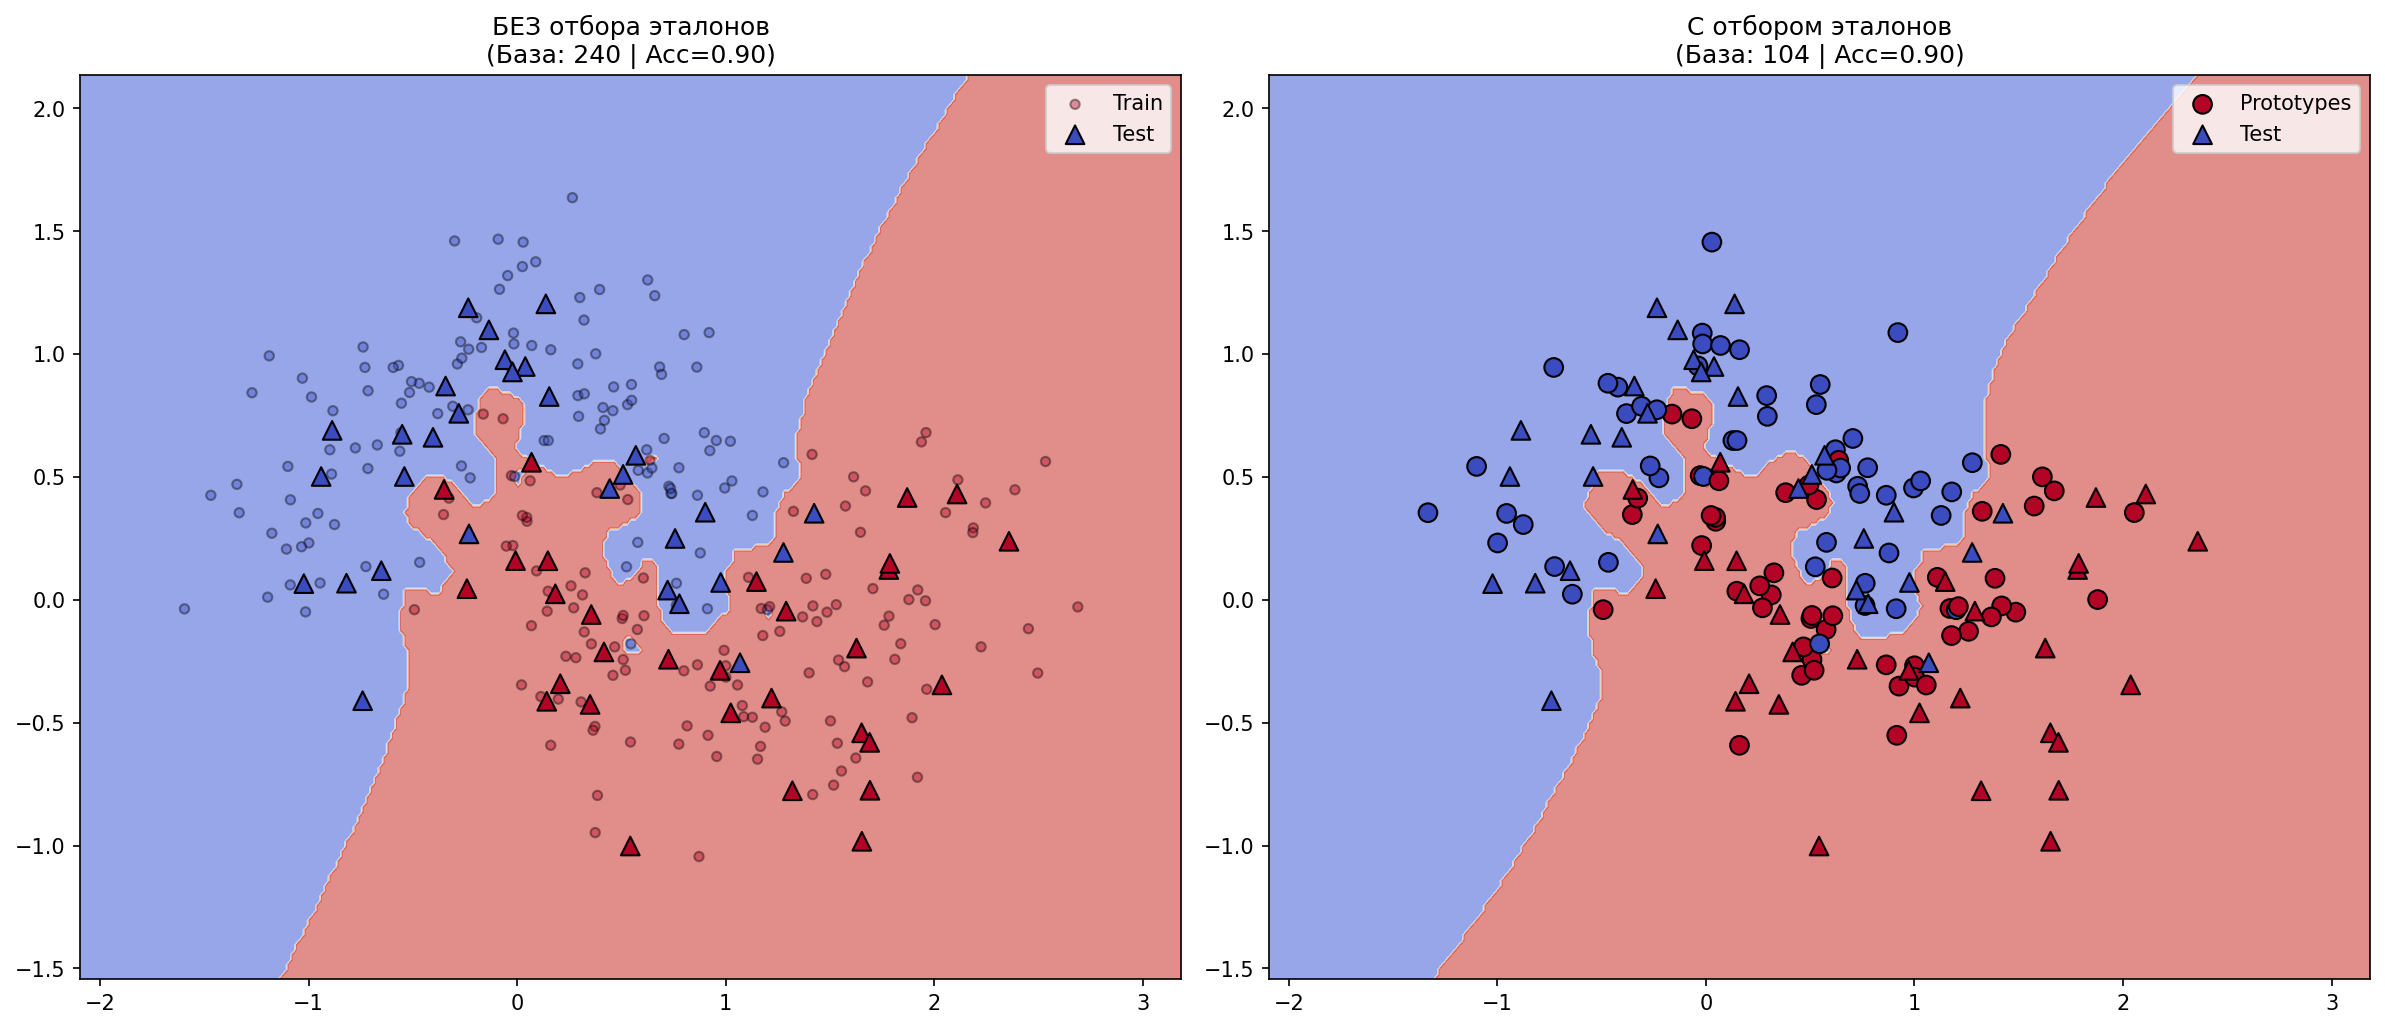
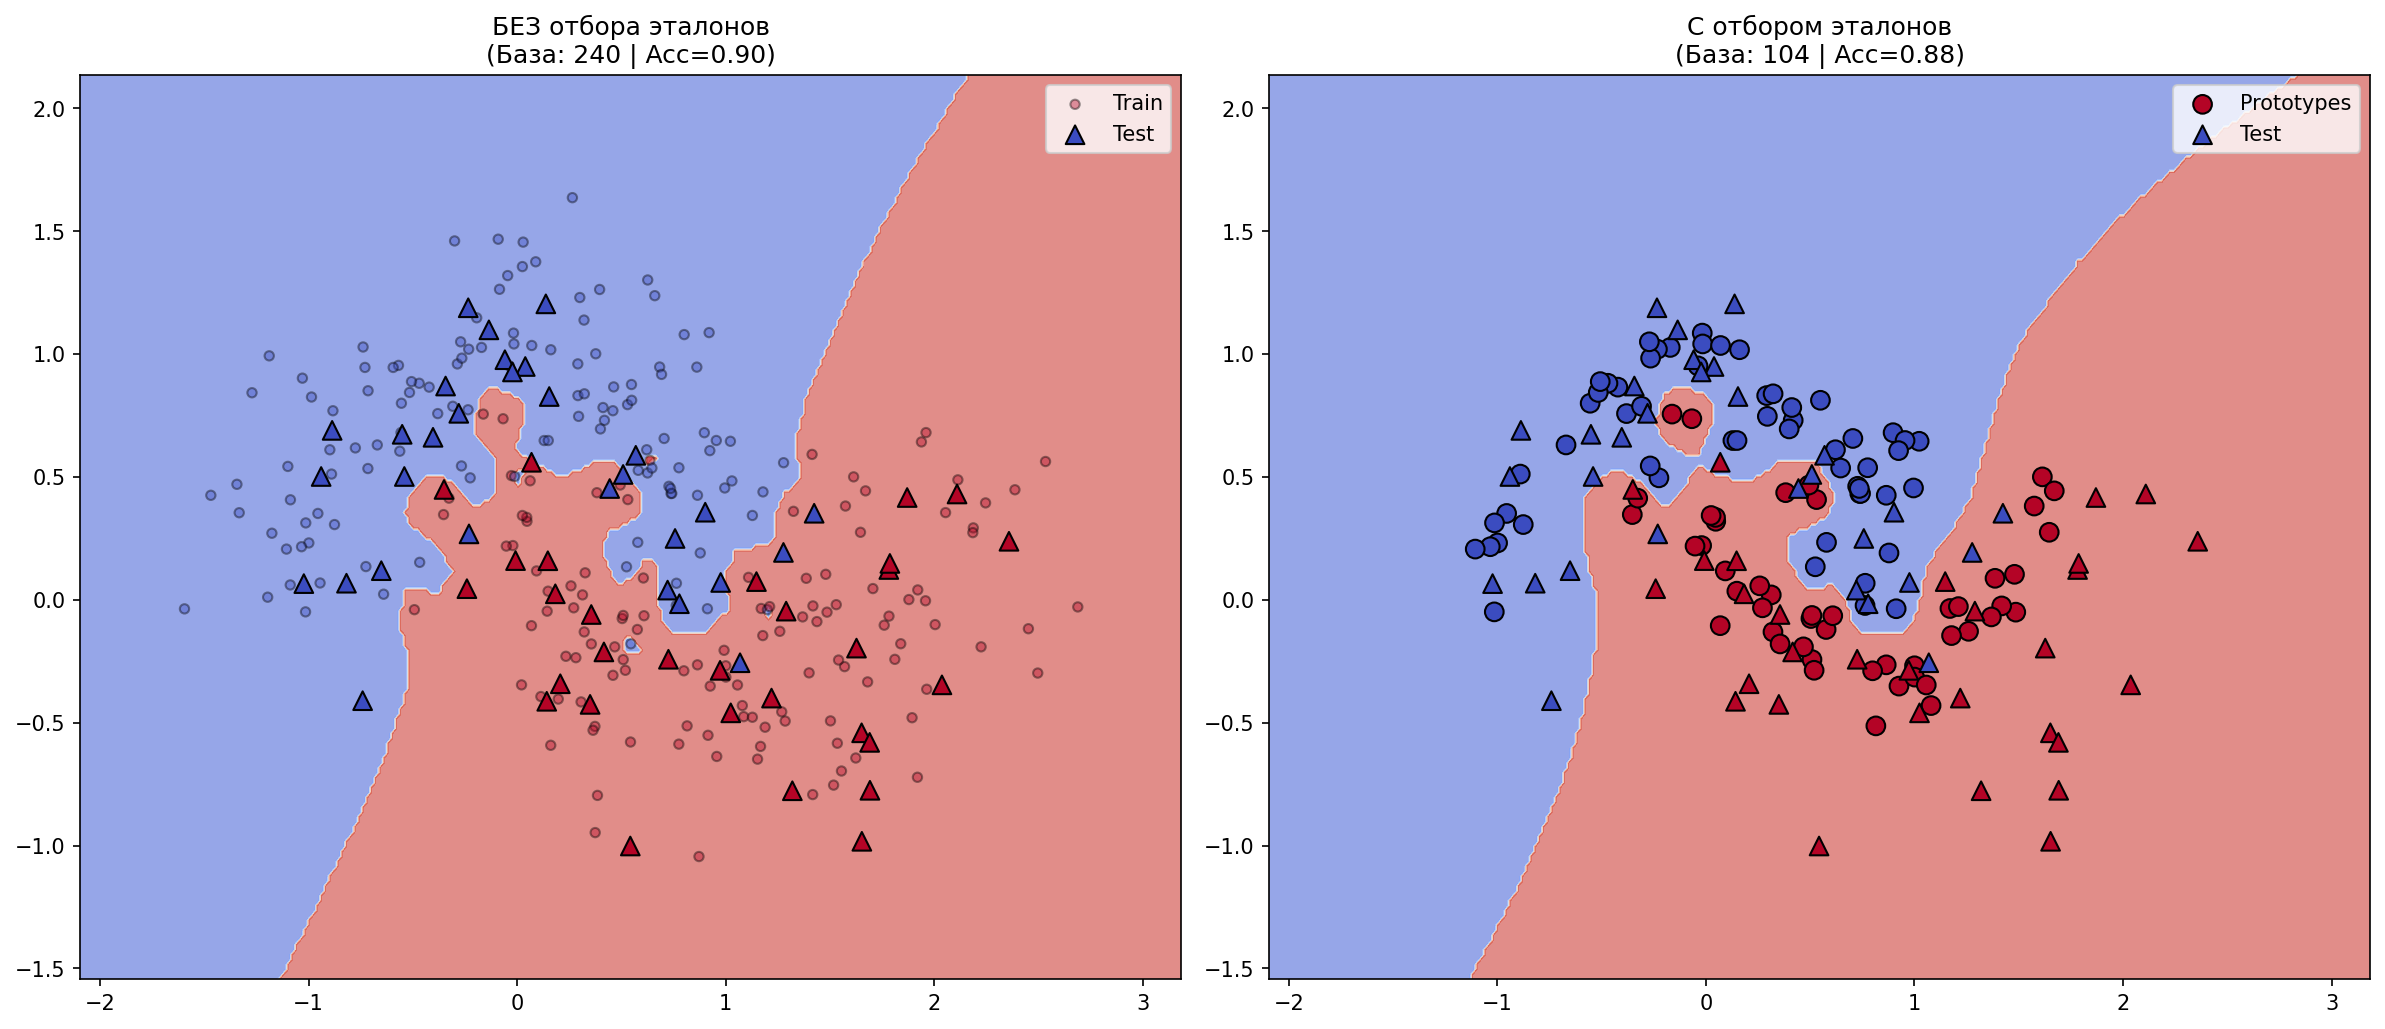
fix: CCV does not include object as its neibour now

diff --git a/students/murinov_av/lab2/source/models.py b/students/murinov_av/lab2/source/models.py
@@ -1,5 +1,4 @@
 import numpy as np
-from scipy.special import comb
 from sklearn.metrics import pairwise_distances
 
 
@@ -58,97 +57,95 @@ class ParzenKNN:
         
         return np.sum(predictions != y) / len(y)
 
-def compute_ccv(X_total, y_total, Omega_X, Omega_y, k_control, R):
+def ccv_weights(L, l, k):
     """
-    Вычисляет CCV (Complete Cross-Validation) для множества эталонов Omega.
-    
-    CCV(Ω) = 1/L * sum_{i=1}^L sum_{m=1}^k [y_i != y_i^(m|Ω)] * R(m)
-    
-    где:
-    - L = len(X_total) - полный размер выборки
-    - Ω = (Omega_X, Omega_y) - множество эталонов
-    - y_i^(m|Ω) - класс m-го ближайшего соседа объекта x_i среди Ω
-    - k = k_control - длина контроля
-    - R(m) = C^{L-1-m}_{l-1} / C^{L-1}_{l} - веса (l = L - k)
-    """
-    L = len(X_total)
-    if len(Omega_X) == 0:
-        return float('inf')
-    
-    # Матрица расстояний от всех объектов X_total до эталонов Omega_X
-    dists = pairwise_distances(X_total, Omega_X)
-    
-    # Находим k_control ближайших соседей в Omega для каждого объекта из X_total
-    # Используем argpartition для эффективности (быстрее полной сортировки)
-    if len(Omega_X) <= k_control:
-        neighbor_indices = np.argsort(dists, axis=1)[:, :len(Omega_X)]
-        actual_k = len(Omega_X)
-    else:
-        neighbor_indices = np.argpartition(dists, k_control, axis=1)[:, :k_control]
-        # Сортируем только k ближайших для правильного порядка
-        for i in range(L):
-            neighbor_indices[i] = neighbor_indices[i][np.argsort(dists[i, neighbor_indices[i]])]
-        actual_k = k_control
-    
-    # Вычисляем CCV
-    ccv_sum = 0.0
-    for m in range(actual_k):
-        # m-й сосед (0-indexed, т.е. (m+1)-й в 1-indexed)
-        # Класс m-го соседа для каждого объекта
-        neighbor_classes = Omega_y[neighbor_indices[:, m]]
-        # Ошибки: y_i != neighbor_classes
-        errors = (y_total != neighbor_classes).astype(float)
-        ccv_sum += np.sum(errors) * R[m]
-    
-    return ccv_sum / L
+    Веса R(m) для CCV.
 
-def prototype_selection_greedy_removal(X, y, k_control, tolerance=1e-5):
+    """
+    R = np.empty(k, dtype=float)
+    R[0] = l / (L - 1)
+
+    for m in range(1, k):
+        R[m] = R[m - 1] * (k - m) / (L - 1 - m)
+
+    return R
+
+
+def compute_ccv(D, y, omega_idx, k_control, R):
+    """
+    Вычисляет CCV(Ω) для множества эталонов Ω, заданного индексами omega_idx.
+
+    D — предвычисленная матрица расстояний между всеми объектами выборки.
+    """
+    n_proto = len(omega_idx)
+    k = min(k_control, n_proto - 1)
+
+    if k <= 0:
+        return 0.0
+
+    dist = D[:, omega_idx].copy()
+
+    # Исключаем объект как собственного соседа.
+    dist[omega_idx, np.arange(n_proto)] = np.inf
+
+    # k ближайших соседей среди эталонов
+    neighbors = np.argsort(dist, axis=1)[:, :k]
+
+    # Ошибки: класс объекта != класс его m-го соседа из Ω
+    errors = y[:, None] != y[omega_idx][neighbors]
+
+    return float(np.sum(errors * R[:k]) / len(y))
+
+
+def prototype_selection_greedy_removal(X, y, k_control=None, tolerance=1e-5):
     """
     Жадное удаление не-эталонов по критерию CCV.
     """
-    X = np.array(X)
-    y = np.array(y)
+    X = np.asarray(X)
+    y = np.asarray(y)
     L = len(X)
-        
+
+    if k_control is None:
+        k_control = max(1, int(0.2 * L))
+
     l = L - k_control
-    
-    R = np.zeros(k_control)
-    den = comb(L - 1, l, exact=True)
-    for m in range(1, k_control + 1):
-        num = comb(L - 1 - m, l - 1, exact=True)
-        R[m - 1] = num / den
-    
-    Omega_X = X.copy()
-    Omega_y = y.copy()
-    
-    current_ccv = compute_ccv(X, y, Omega_X, Omega_y, k_control, R)
-    print(f"\nInitial size: {len(Omega_X)}, CCV: {current_ccv:.6f}")
-    
-    improved = True
+    R = ccv_weights(L, l, k_control)
+
+    # Предвычисляем расстояния
+    D = pairwise_distances(X, X)
+
+    omega_idx = np.arange(L)
+    current_ccv = compute_ccv(D, y, omega_idx, k_control, R)
+
+    print(f"Initial size: {len(omega_idx)}, CCV: {current_ccv:.6f}")
+
     iteration = 0
-    
-    while improved and len(Omega_X) > 10:
-        improved = False
-        best_ccv = current_ccv
-        best_idx_to_remove = -1
-        
-        for i in range(len(Omega_X)):
-            temp_X = np.delete(Omega_X, i, axis=0)
-            temp_y = np.delete(Omega_y, i)
-            temp_ccv = compute_ccv(X, y, temp_X, temp_y, k_control, R)
-            
-            if temp_ccv <= best_ccv + tolerance:
-                best_ccv = temp_ccv
-                best_idx_to_remove = i
-        
-        if best_idx_to_remove != -1:
-            Omega_X = np.delete(Omega_X, best_idx_to_remove, axis=0)
-            Omega_y = np.delete(Omega_y, best_idx_to_remove)
-            current_ccv = best_ccv
-            improved = True
-            iteration += 1
-            if iteration % 10 == 0:
-                print(f"Iter {iteration}: newSize={len(Omega_X)}, CCV={current_ccv:.6f}")
-    
-    print(f"Final size: {len(Omega_X)}, CCV: {current_ccv:.6f}")
-    return Omega_X, Omega_y
+
+    # Гарантируем, что у каждого эталона остаётся хотя бы k_control соседей
+    while len(omega_idx) > k_control + 1:
+        ccvs = np.empty(len(omega_idx))
+
+        for j in range(len(omega_idx)):
+            cand_idx = np.delete(omega_idx, j)
+            ccvs[j] = compute_ccv(D, y, cand_idx, k_control, R)
+
+        best_j = int(np.argmin(ccvs))
+
+        # Удаляем, если CCV уменьшается или почти не увеличивается
+        if ccvs[best_j] > current_ccv + tolerance:
+            break
+
+        omega_idx = np.delete(omega_idx, best_j)
+        current_ccv = ccvs[best_j]
+        iteration += 1
+
+        if iteration % 10 == 0:
+            print(
+                f"Iter {iteration}: "
+                f"newSize={len(omega_idx)}, "
+                f"CCV={current_ccv:.6f}"
+            )
+
+    print(f"Final size: {len(omega_idx)}, CCV: {current_ccv:.6f}")
+
+    return X[omega_idx], y[omega_idx]

diff --git a/students/murinov_av/lab2/source/main.py b/students/murinov_av/lab2/source/main.py
@@ -81,7 +81,7 @@ def main():
     
     print("\nАлгоритм отбора эталонов")
     k_control = int(0.2 * len(X_train)) 
-    prototypes_X, prototypes_y = prototype_selection_greedy_removal(X_train, y_train, k_control=k_control, tolerance=1e-6)
+    prototypes_X, prototypes_y = prototype_selection_greedy_removal(X_train, y_train, k_control=k_control, tolerance=1e-7)
     print(f"Итоговый размер множества эталонов: {len(prototypes_X)}/{len(X_train)}")
     
     is_prototype = np.zeros(len(X_train), dtype=bool)

diff --git a/students/murinov_av/lab2/README.md b/students/murinov_av/lab2/README.md
@@ -4,7 +4,7 @@
 
 ## Датасет
 
-В работе используется синтетический датасет `make_moons` (200 объектов, 2 признака, 2 класса).
+В работе используется синтетический датасет `make_moons` (300 объектов, 2 признака, 2 класса).
 Данный датасет представляет собой два переплетенных полумесяца, что делает его нелинейно разделимым и идеально подходит для демонстрации метрических методов.
 Добавлен шум (`noise=0.25`) для создания выбросов и пересечений классов.
 
@@ -51,14 +51,14 @@ $$a(x; X^l, k, K) = \arg\max_{y \in Y} \sum_{i=1}^l [y_i = y] K\left( \frac{\rho
 | Модель | Размер базы | Accuracy (Test) | F1-score (Test) |
 |--------|:-----------:|:---------------:|:---------------:|
 | Parzen KNN **без отбора** | 240 | 0.9000 | 0.8990 |
-| Parzen KNN **с отбором эталонов** | 104 | 0.9000 | 0.8990 |
+| Parzen KNN **с отбором эталонов** | 104 | 0.8833 | 0.8825 |
 
 ![Сравнение](reports/comparison_prototypes_vs_full.png)
 
-**Вывод:** Алгоритм успешно отсек шумовые объекты (серые точки), оставив только наиболее информативные эталоны на границах классов и внутри кластеров. Алгоритм сократил обучающую выборку в **2.3 раза** (с 240 до 104 объектов) без потери в качестве.
+**Вывод:** Алгоритм успешно отсек шумовые объекты (серые точки), оставив только наиболее информативные эталоны на границах классов и внутри кластеров. Алгоритм сократил обучающую выборку в **2.5 раза** (с 240 до 104 объектов) с малой потерей в качестве.
 
 ## Выводы
 1. Метрические методы (KNN, окно Парзена) хорошо справляются с нелинейно разделимыми данными благодаря гипотезе компактности.
 2. Метод скользящего контроля (LOO) эффективно подбирает параметр $k$ (или ширину окна).
 3. Гауссово ядро обеспечивает гладкую аппроксимацию разделяющей поверхности.
-4. Отбор эталонов позволяет значительно сократить размер обучающей выборки, удалив шум и внутренние точки кластеров, не ухудшая при этом обобщающую способность модели.
+4. Отбор эталонов позволяет значительно сократить размер обучающей выборки, удалив шум и внутренние точки кластеров, не сильно ухудшая при этом обобщающую способность модели.
